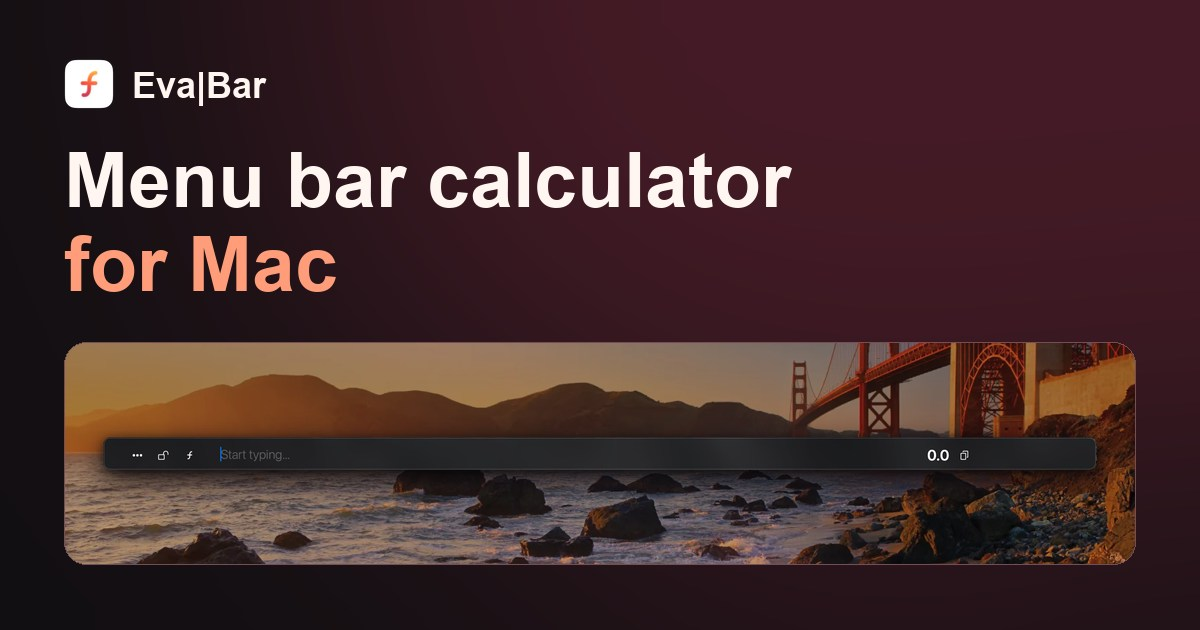
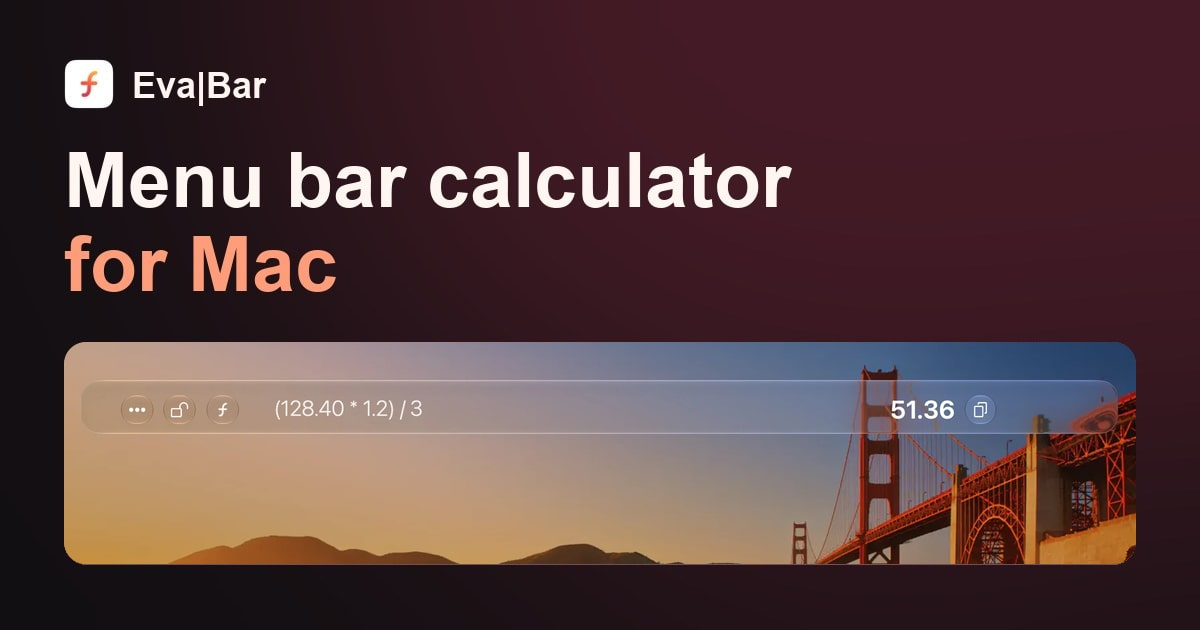
feat: refresh EvaBar website and optimize images

diff --git a/site/src/styles.css b/site/src/styles.css
@@ -203,6 +203,8 @@ a.download-option:hover, a.download-option:focus-visible { background: var(--acc
 .download-note a, .guide-steps a { color: var(--primary); text-decoration: underline; }
 
 .preview-anchor { position: relative; }
+.preview-note { margin: .7rem .25rem 0; color: var(--muted-foreground); font-size: .8125rem; }
+.preview-note a { margin-inline-start: .35rem; color: var(--primary); text-decoration: underline; }
 .calculator-preview {
   overflow: hidden;
   margin: 0;
@@ -211,55 +213,44 @@ a.download-option:hover, a.download-option:focus-visible { background: var(--acc
   background: #20171d;
   box-shadow: 0 28px 72px -36px #000c, 0 0 60px -40px #e6625366;
 }
-.desktop-wallpaper {
-  background: linear-gradient(180deg, #26121c70, #4017252e 65%), url("/images/macos-27-wallpaper.webp") center 52% / cover #37252b;
-}
 .desktop-preview {
-  min-height: clamp(15rem, 33vw, 23rem);
-  padding: 0 clamp(.625rem, 3vw, 2.125rem);
+  position: relative;
+  aspect-ratio: 2400 / 816;
+  /* The 2400 × 816 capture begins 107 px down the scaled 2400 × 1350 wallpaper. */
+  background: #20212b url("/images/macos-27-wallpaper.webp") center 20.037453% / 100% auto no-repeat;
 }
-.desktop-menubar {
+.desktop-preview-panel {
+  position: absolute;
+  /* The panel crop begins at (32, 76) in the 2400 × 816 capture. */
+  left: 1.333333%;
+  top: 9.313725%;
+  width: 97.333333%;
+  height: auto;
+}
+.demo-copy {
+  position: absolute;
+  /* AppKit copy button center in the 1200 × 408 pt capture. */
+  left: 85.5%;
+  top: 18.62745%;
+  width: max(24px, 2.83333%);
+  height: max(24px, 7.84314%);
+  transform: translate(-50%, -50%);
+  border-radius: 50%;
+}
+.demo-copy:hover { box-shadow: 0 0 0 1px #ffffff65; }
+.demo-readout {
   display: flex;
-  min-height: 2.1rem;
-  align-items: center;
   justify-content: space-between;
-  margin-inline: calc(-1 * clamp(.625rem, 3vw, 2.125rem));
-  padding-inline: 1rem;
-  border-bottom: 1px solid #fff2;
-  background: #1e141cbb;
-  color: #fff;
-  backdrop-filter: blur(18px);
-  font-size: .75rem;
-  font-weight: 550;
-}
-.desktop-app, .desktop-status { display: flex; align-items: center; gap: .625rem; }
-.desktop-status img, .demo-tools img { filter: brightness(0) invert(1); }
-.demo-calculator {
-  display: grid;
-  grid-template-columns: auto minmax(0, 1fr) auto;
-  align-items: center;
-  gap: clamp(.5rem, 2.2vw, 1.75rem);
-  margin-top: .875rem;
-  padding: .5rem clamp(.5rem, 1.8vw, 1.35rem);
-  min-height: 3.75rem;
-  border: 1px solid #ffffff45;
-  border-radius: .9rem;
-  background: #21161ddb;
-  box-shadow: 0 8px 28px #15090c66, inset 0 1px 0 #ffffff0c;
-  backdrop-filter: blur(24px);
-}
-.demo-tools { display: flex; align-items: center; gap: clamp(.55rem, 1.5vw, 1.1rem); color: #fcf1ef; }
-.demo-expression, .demo-result {
-  min-width: 0;
+  gap: .5rem;
+  padding: .625rem 1rem;
+  color: var(--foreground);
   font-family: var(--font-mono);
-  font-size: clamp(.9rem, 2.1vw, 1.38rem);
-  overflow-wrap: anywhere;
-  font-variant-numeric: tabular-nums;
+  font-size: .875rem;
 }
-.demo-expression { color: #f9efed; }
-.demo-answer { display: flex; align-items: center; gap: .35rem; min-width: 0; justify-content: end; }
-.demo-result { color: var(--console-accent); font-weight: 640; text-align: right; text-shadow: 0 0 18px #ffc07238; }
-.demo-copy { color: #f9d9ce; }
+.demo-readout output { font-weight: 650; white-space: nowrap; }
+@media (min-width: 701px) {
+  .demo-readout { position: absolute; width: 1px; height: 1px; padding: 0; overflow: hidden; clip-path: inset(50%); }
+}
 .demo-caption {
   display: flex;
   min-height: 3.6rem;
@@ -269,11 +260,26 @@ a.download-option:hover, a.download-option:focus-visible { background: var(--acc
   border-top: 1px solid #ffffff20;
   padding: .5rem 1rem;
 }
-.demo-label { color: var(--muted-foreground); font-size: .875rem; }
-.demo-examples { display: flex; flex-wrap: wrap; gap: .25rem; }
+.demo-appearance {
+  display: flex;
+  align-items: center;
+  gap: .15rem;
+  padding: .2rem;
+  border: 1px solid #76515870;
+  border-radius: 999px;
+  background: #100b1078;
+}
+.demo-appearance button { border-radius: 999px; color: var(--muted-foreground); white-space: nowrap; }
+.demo-appearance button[aria-pressed="true"] {
+  background: #52343b;
+  box-shadow: inset 0 1px 0 #ffffff1a;
+  color: var(--foreground);
+}
+.demo-label { margin-inline-end: .25rem; color: var(--muted-foreground); font-size: .875rem; }
+.demo-examples { display: flex; flex-wrap: wrap; align-items: center; gap: .25rem; margin-inline-start: auto; }
 .example-button { border: 1px solid transparent; }
 .example-button[aria-pressed="true"] { border-color: #885048; background: #42262a; color: var(--console-accent); }
-.demo-feedback { margin-left: auto; color: var(--primary); font-size: .875rem; }
+.demo-feedback:not(:empty) { flex-basis: 100%; color: var(--primary); font-size: .875rem; text-align: end; }
 
 .content-section { padding-block: clamp(3.5rem, 8vw, 6.35rem); }
 .content-section h2 {
@@ -483,8 +489,7 @@ a.download-option:hover, a.download-option:focus-visible { background: var(--acc
   .hero-copy { padding-top: 2.35rem; }
   .hero::before, .hero::after { inset-inline: -1rem; }
   .hero::after { background-position: 75% top; opacity: .12; }
-  .demo-calculator { grid-template-columns: auto minmax(0, 1fr); }
-  .demo-answer { grid-column: 1 / -1; }
+  .demo-examples { margin-inline-start: 0; }
   .feature-grid, .tour-details, .guide, .questions, .resource-grid { grid-template-columns: 1fr; }
 }
 

diff --git a/site/src/components/calculator-preview.tsx b/site/src/components/calculator-preview.tsx
@@ -1,15 +1,20 @@
-import { BatteryFull, Check, Copy, Ellipsis, LockKeyholeOpen, Wifi } from "lucide-react";
 import { useState } from "react";
 import { Button } from "@/components/ui/button";
 
 const examples = [
-  { label: "Split a bill", expression: "(128.40 * 1.2) / 3", result: "51.36" },
-  { label: "Use a function", expression: "sqrt(144) + 3", result: "15" },
-  { label: "Plan a budget", expression: "3250 * 12 + 1050", result: "40050" },
+  { id: "split-bill", label: "Split a bill", expression: "(128.40 * 1.2) / 3", result: "51.36" },
+  { id: "square-root", label: "Use a function", expression: "sqrt(144) + 3", result: "15" },
+  { id: "annual-budget", label: "Plan a budget", expression: "3250 * 12 + 1050", result: "40,050" },
 ];
+
+const appearances = [
+  { id: "liquid-glass", label: "Liquid Glass" },
+  { id: "classic", label: "Classic" },
+] as const;
 
 export function CalculatorPreview() {
   const [selected, setSelected] = useState(0);
+  const [appearance, setAppearance] = useState<(typeof appearances)[number]["id"]>("liquid-glass");
   const [copyFeedback, setCopyFeedback] = useState<{ index: number; status: "copied" | "unavailable" }>();
   const example = examples[selected];
   const feedback = copyFeedback?.index === selected ? copyFeedback.status : undefined;
@@ -25,32 +30,34 @@ export function CalculatorPreview() {
 
   return (
     <figure className="calculator-preview" aria-label="Eva|Bar interactive preview">
-      <div className="desktop-preview desktop-wallpaper">
-        <div className="desktop-menubar" aria-hidden="true">
-          <span className="desktop-app">Eva|Bar</span>
-          <span className="desktop-status"><img src="/images/evabar-mark.png" alt="" width="14" height="14" /><Wifi size={13} /><BatteryFull size={16} /><span>9:41 AM</span></span>
-        </div>
-        <div className="demo-calculator">
-          <div className="demo-tools" aria-hidden="true">
-            <Ellipsis size={19} />
-            <LockKeyholeOpen size={16} />
-            <img src="/images/evabar-mark.png" alt="" width="19" height="19" />
-          </div>
-          <code className="demo-expression">{example.expression}</code>
-          <div className="demo-answer">
-            <output className="demo-result" aria-label="Expression result">{example.result}</output>
-            <Button type="button" size="icon" variant="ghost" onClick={copyResult} aria-label="Copy result" title="Copy result" className="demo-copy">
-              {feedback === "copied" ? <Check aria-hidden="true" /> : <Copy aria-hidden="true" />}
-            </Button>
-          </div>
-        </div>
+      <div className="desktop-preview" data-appearance={appearance}>
+        <img
+          className="desktop-preview-panel"
+          src={`/images/desktop-preview/${appearance}-${example.id}.webp`}
+          width="2336"
+          height="144"
+          alt=""
+        />
+        <button className="demo-copy" type="button" onClick={copyResult} aria-label="Copy result" title="Copy result" />
+      </div>
+      <div className="demo-readout">
+        <code>{example.expression}</code>
+        <output aria-label="Expression result">{example.result}</output>
       </div>
       <figcaption className="demo-caption">
-        <span className="demo-label">Try an example</span>
+        <div className="demo-appearance" aria-label="Preview appearance" role="group">
+          {appearances.map(({ id, label }) => (
+            <Button key={id} type="button" size="sm" variant="ghost" aria-pressed={appearance === id}
+              onClick={() => setAppearance(id)}>
+              {label}
+            </Button>
+          ))}
+        </div>
         <div className="demo-examples" aria-label="Calculation examples" role="group">
+          <span className="demo-label" aria-hidden="true">Try an example</span>
           {examples.map((sample, index) => (
             <Button
-              key={sample.label}
+              key={sample.id}
               type="button"
               size="sm"
               variant="ghost"

diff --git a/site/src/lib/resources.ts b/site/src/lib/resources.ts
@@ -10,7 +10,7 @@ export const resources = {
     path: "/compare/calcbar-1-6/",
     title: "CalcBar 1.6 Alternative for Mac — Eva|Bar",
     heading: "CalcBar 1.6 vs. Eva|Bar",
-    description: "CalcBar 1.6 needs Rosetta on Apple silicon and will stop working on macOS 28. Compare it with Eva|Bar, a native Mac menu bar calculator.",
+    description: "Compare CalcBar 1.6 and Eva|Bar on price, macOS compatibility, large-number precision, long results, interface languages, and Liquid Glass.",
   },
   spotlight: {
     path: "/compare/spotlight-calculator/",
@@ -34,7 +34,7 @@ export const resources = {
     path: "/features/",
     title: "Eva|Bar Features — Menu Bar Icons, Shortcuts and More",
     heading: "Eva|Bar features and preferences",
-    description: "Preview Eva|Bar’s 10 menu bar icons. Learn to change or hide the icon and set shortcuts, number formatting, launch at login, and language.",
+    description: "Learn how to switch Liquid Glass on or off, change or hide the menu bar icon, and set keyboard shortcuts and number formatting in Eva|Bar.",
   },
 } satisfies Record<string, ResourcePage>;
 

diff --git a/site/README.md b/site/README.md
@@ -16,7 +16,7 @@ Run `npm run check` to type-check the site and `npm run build` to generate it in
 
 For each processor type, the download menu selects the newest stable GitHub release with a compatible package and falls back to a prerelease when needed. Within a release, a processor-specific package takes priority over a universal one. The menu shows the version of each package and lists a shared universal package once. Rebuild the static site after publishing a release to update the download links. If GitHub is unavailable or no matching asset exists, the download button opens the releases page.
 
-The desktop preview uses the default wallpaper from macOS 27 and Eva|Bar’s app artwork.
+The desktop preview layers cropped AppKit calculator captures over `public/images/macos-27-wallpaper.webp`. The panel crops in `public/images/desktop-preview/` are 2336 × 144 pixels and start at (32, 76) in the 2400 × 816 capture. Their filenames combine the appearance and example IDs from `src/components/calculator-preview.tsx`, as in `liquid-glass-split-bill.webp`. The web copy button is positioned over the native copy icon.
 
 ## Production deployment
 

diff --git a/README.md b/README.md
@@ -4,7 +4,7 @@
 <p align="center"><strong>macOS 13+ · Apple silicon and Intel</strong></p>
 <p align="center"><a href="https://evabar.michaeljier.cn/">Website</a> · <a href="https://github.com/MichaelChene/EvaBar/releases">Releases</a> · <a href="#quick-start">Quick start</a> · <a href="#build">Build</a></p>
 
-![Eva|Bar showing a live calculation in its floating bar](docs/images/evabar-bar.png)
+![Eva|Bar’s floating calculator with Liquid Glass enabled](docs/images/evabar-liquid-glass.png)
 
 ## Quick start
 
